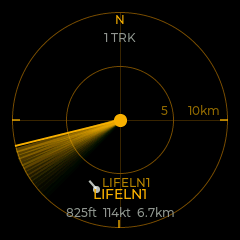
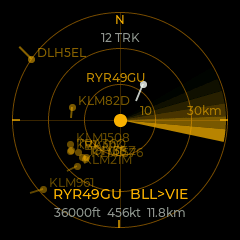
Polish from the screenshot session + WiFi reconnect watchdog
- WiFi: STA association was observed dropping and staying down silently;
  loop now nudges WiFi.reconnect() after 30 s disconnected
- radar focus readout: U+00B7 isn't in the built-in Montserrat fonts and
  rendered as a missing-glyph box for ground traffic — use the bullet
- skip range-ring marks that would collide with the rim label at larger
  ranges ("20" mashing into "30km")
- README: new hero capture showing the gradient-wedge sweep and a busy
  12-contact scope

diff --git a/firmware/src/main.cpp b/firmware/src/main.cpp
@@ -153,6 +153,20 @@ void loop() {
     display::tick();
     web::loop_tick();
     ArduinoOTA.handle();
+
+    // STA association can drop and stay down silently (observed in the wild:
+    // device alive, WiFi gone, nothing reconnecting). Nudge it every 30 s.
+    static uint32_t last_wifi_ok_ms = 0;
+    uint32_t now = millis();
+    if (WiFi.getMode() == WIFI_STA) {
+        if (WiFi.status() == WL_CONNECTED) {
+            last_wifi_ok_ms = now;
+        } else if (now - last_wifi_ok_ms > 30000) {
+            last_wifi_ok_ms = now;   // rate-limit attempts
+            log_w("WiFi down >30 s — reconnecting");
+            WiFi.reconnect();
+        }
+    }
     // Yield briefly instead of busy-spinning core 1 — LVGL timers are 33 ms+
     // granular, so a 1 ms sleep costs nothing and lets the idle task run.
     delay(1);

diff --git a/firmware/src/ui.cpp b/firmware/src/ui.cpp
@@ -223,7 +223,11 @@ void build_radar_screen() {
         int r_px = (int)lroundf((float)RADAR_R * dist_km / range);
         lv_obj_align(l, LV_ALIGN_CENTER, r_px - (rim ? 24 : 10), -10);
     };
-    for (int d = ring_step; d < range; d += ring_step) add_range_mark(d, false);
+    for (int d = ring_step; d < range; d += ring_step) {
+        // skip a mark that would collide with the rim label ("20" vs "30km")
+        if (RADAR_R - RADAR_R * d / range < 42) continue;
+        add_range_mark(d, false);
+    }
     add_range_mark(range, true);
 
     // Sweep afterglow: contiguous translucent pie sectors with quadratically
@@ -446,7 +450,7 @@ void radar_place_blips() {
     else if (f.baro_rate < -300) vsym = LV_SYMBOL_DOWN;
 
     char l2[48];
-    if (f.on_ground) snprintf(l2, sizeof(l2), "GROUND · %.0fkm", live_dist[rd_focus_ix]);
+    if (f.on_ground) snprintf(l2, sizeof(l2), "GROUND  •  %.0fkm", live_dist[rd_focus_ix]);
     else snprintf(l2, sizeof(l2), "%ldft%s  %dkt  %.1fkm",
                   (long)f.alt_ft, vsym, (int)f.gs_kt, live_dist[rd_focus_ix]);
     set_text_if_changed(rd_focus2, l2);

diff --git a/README.md b/README.md
@@ -8,11 +8,11 @@ configuration.
 
 | Flight radar (amber theme) | Weather + rain nowcast |
 |:---:|:---:|
-| ![Radar scope tracking a helicopter](docs/radar.png) | ![Current conditions](docs/weather.png) |
+| ![Radar scope with 12 aircraft](docs/radar.png) | ![Current conditions](docs/weather.png) |
 
-*Real screen captures (`/shot.bmp`): the scope tracking the Amsterdam trauma
-helicopter at 825 ft; the weather screen with a shower approaching on the
-2-hour rain graph.*
+*Real screen captures (`/shot.bmp`): a busy evening scope — 12 contacts around
+Schiphol, focused on a Ryanair overflight (Billund→Vienna, FL360); the weather
+screen with a shower approaching on the 2-hour rain graph.*
 
 ```
                           Wi-Fi / HTTPS